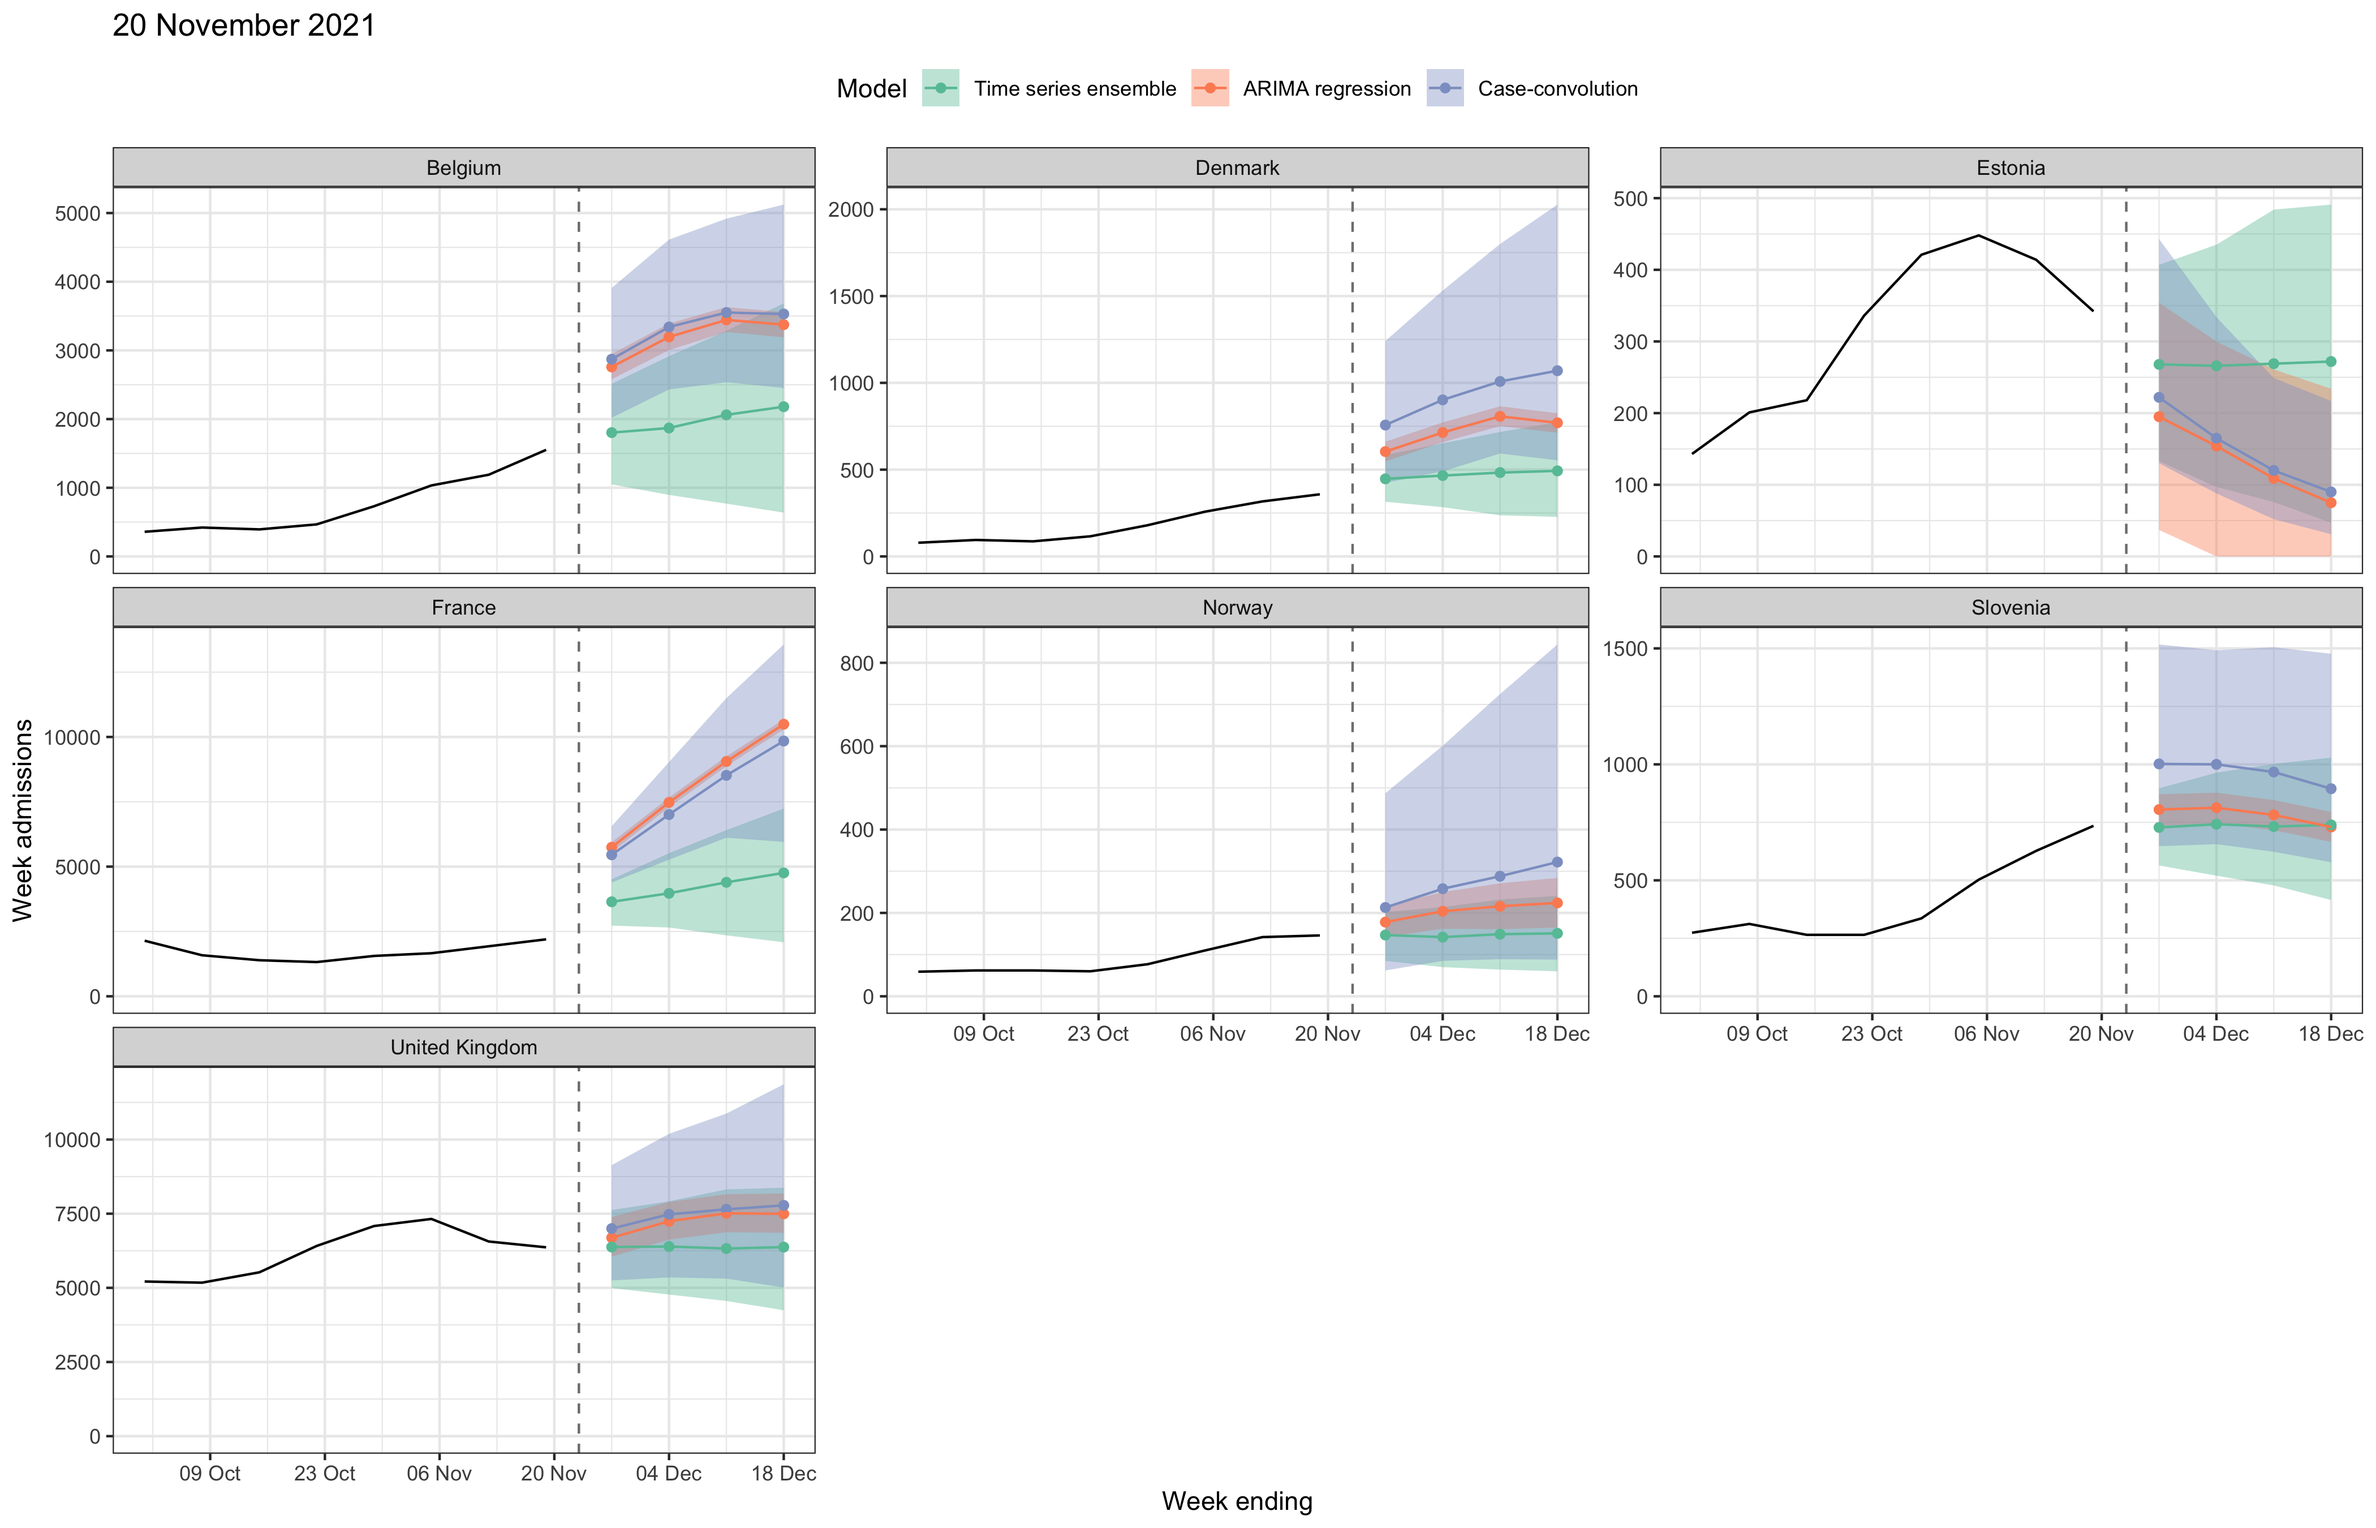
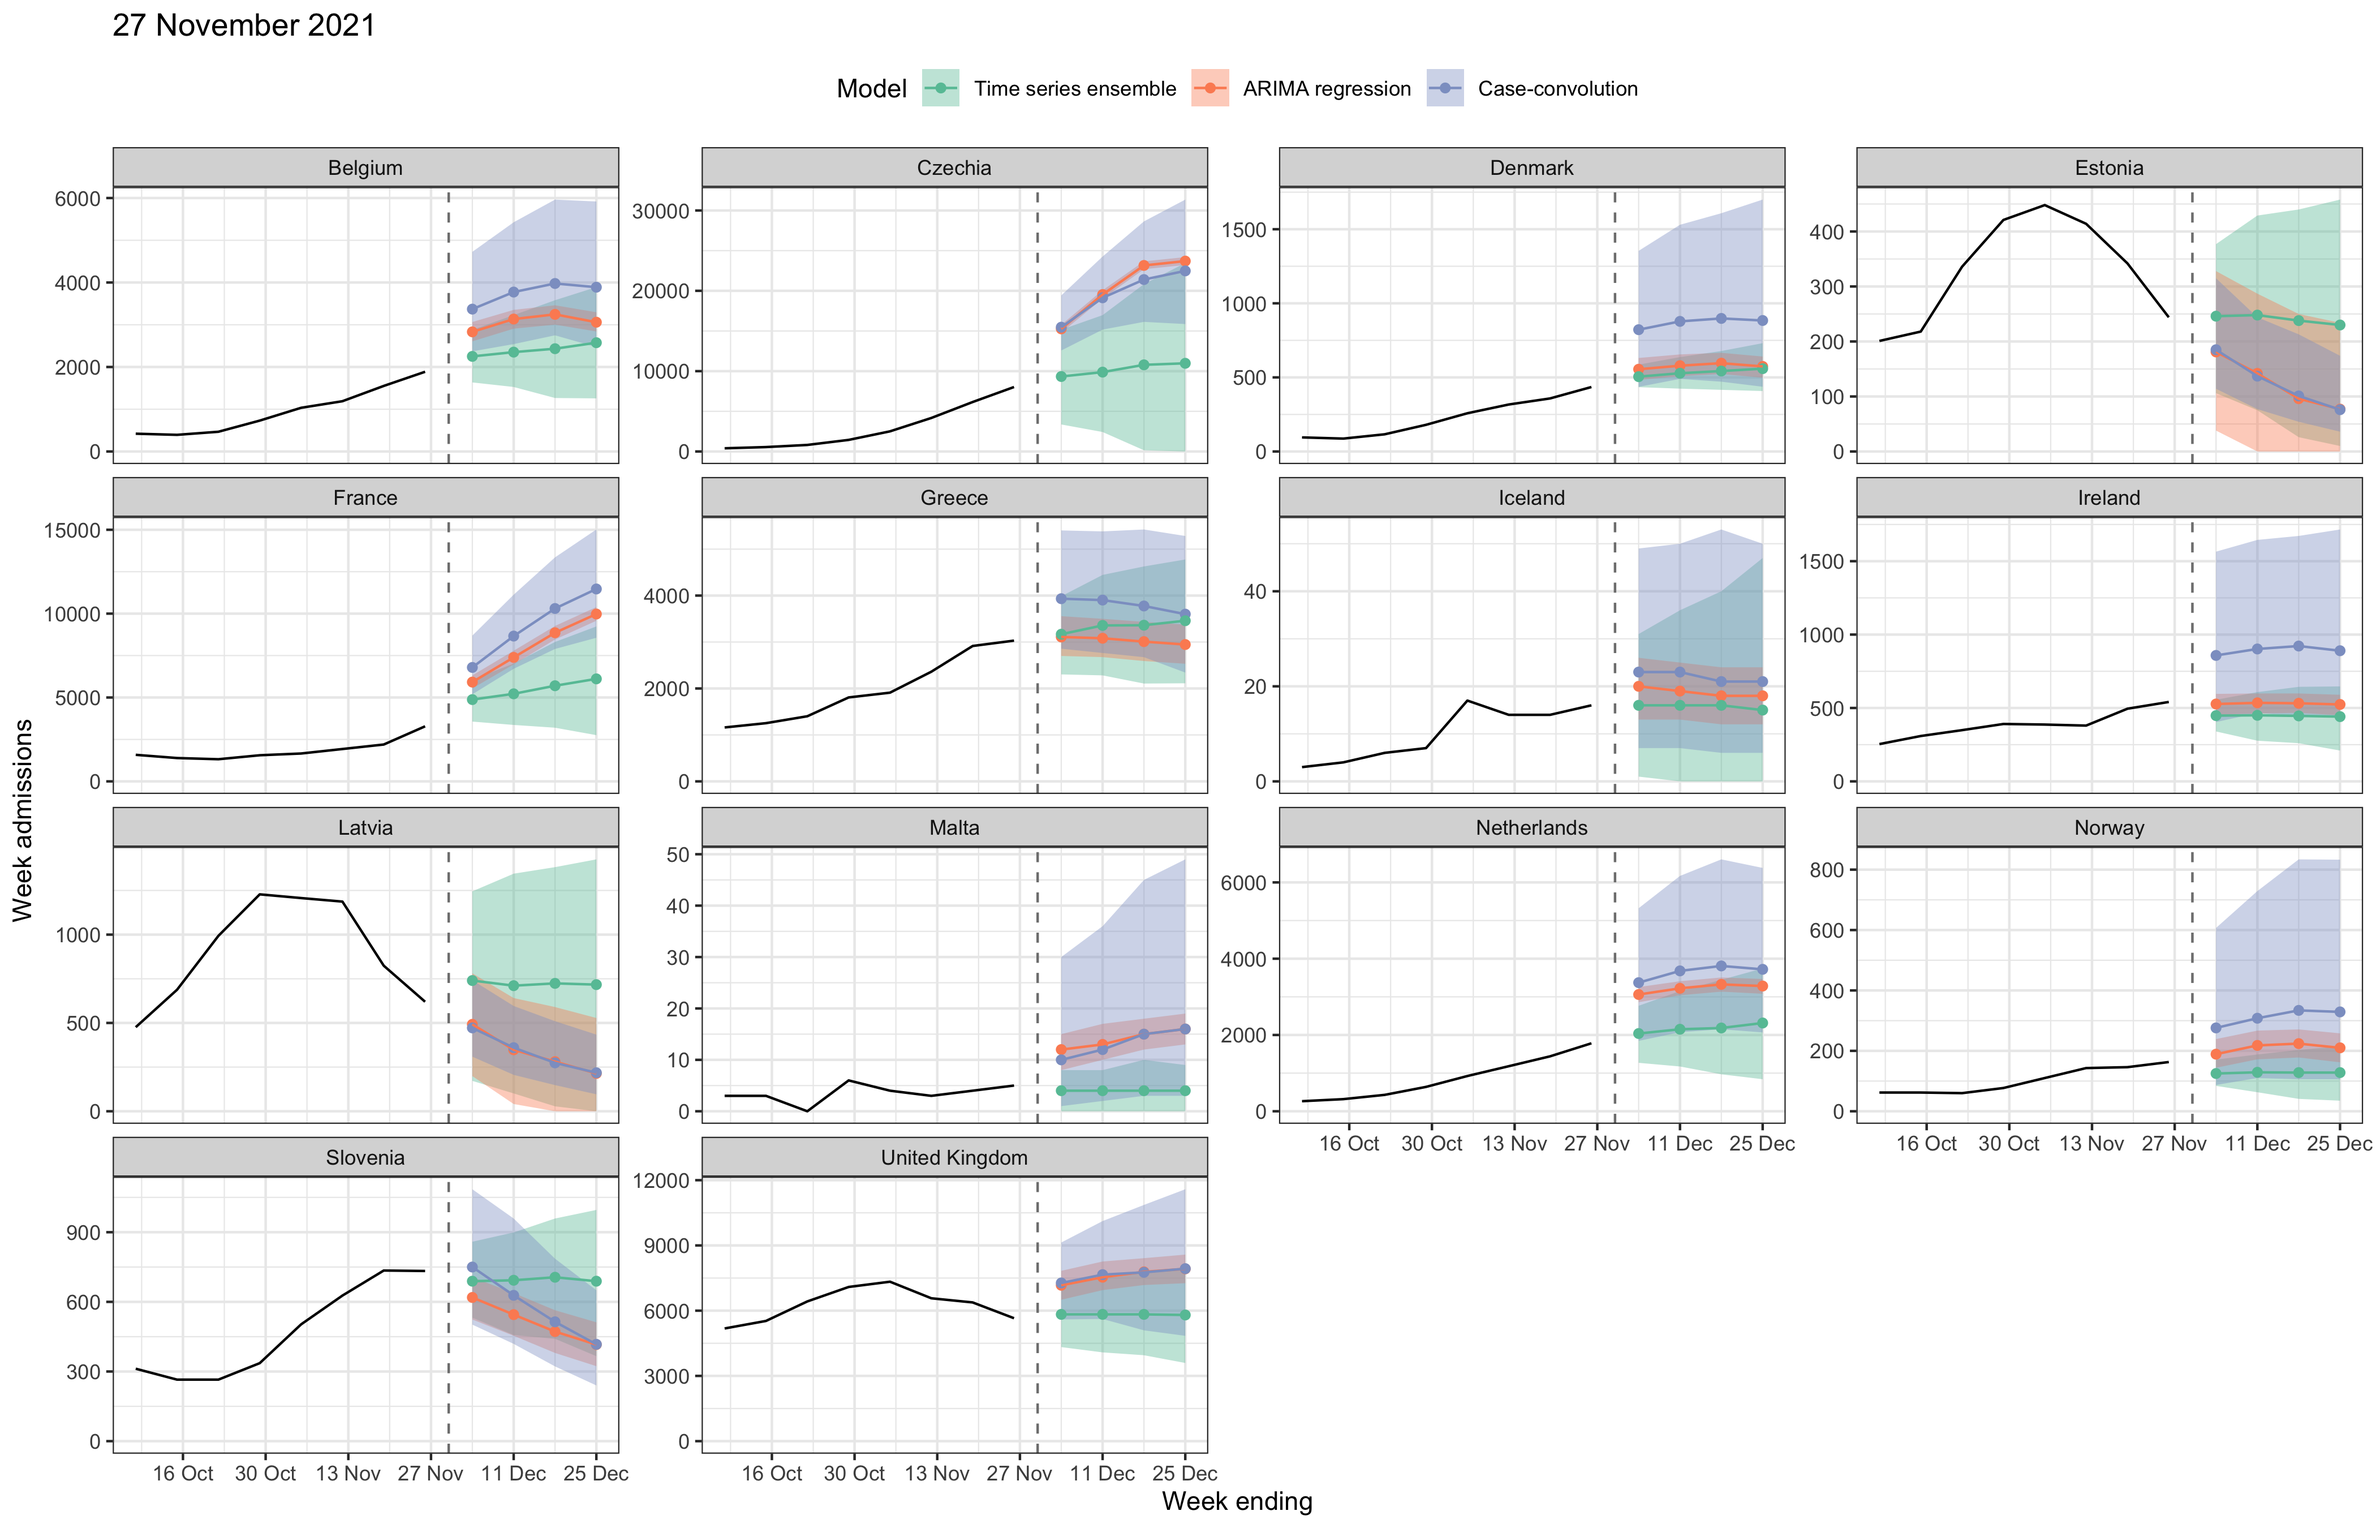
Update README

Changed region(s): [[0.0312, 0.0933, 0.9981, 0.9644]]

diff --git a/README.md b/README.md
@@ -2,9 +2,10 @@
 
 ## Current forecasts
 
-The most recent forecasts (from 20 November 2021) cover the following
-locations: Belgium (BE), Denmark (DK), Estonia (EE), France (FR), Norway
-(NO), Slovenia (SI), United Kingdom (GB).
+The most recent forecasts (from 27 November 2021) cover the following
+locations: Belgium (BE), Czechia (CZ), Denmark (DK), Estonia (EE),
+France (FR), Greece (GR), Iceland (IS), Ireland (IE), Latvia (LV), Malta
+(MT), Netherlands (NL), Norway (NO), Slovenia (SI), United Kingdom (GB).
 
 ![](README_files/figure-markdown_github/current_forecast-1.png)
 
